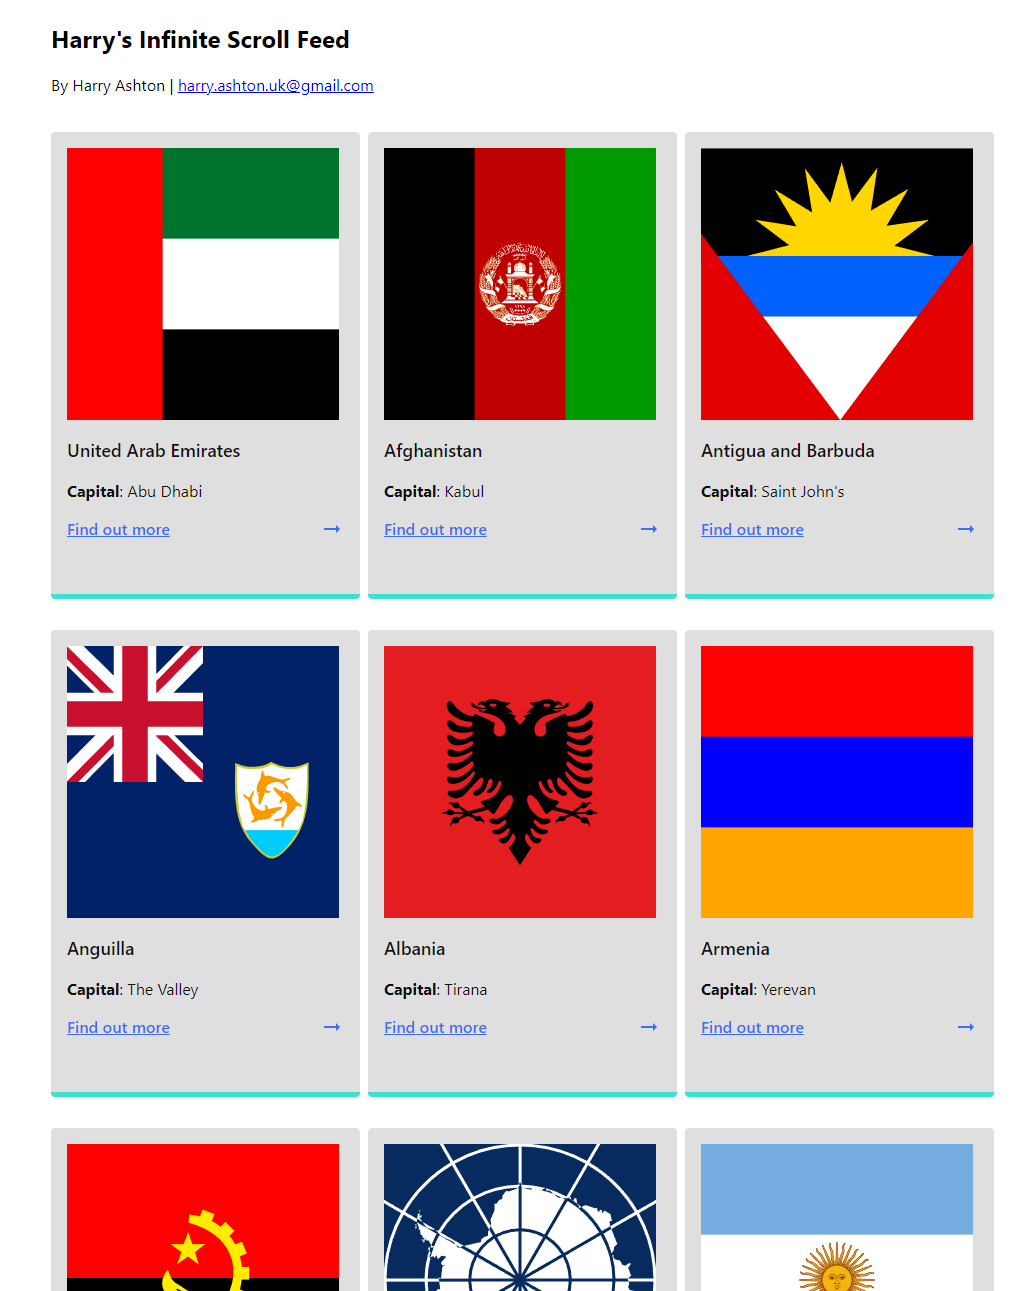
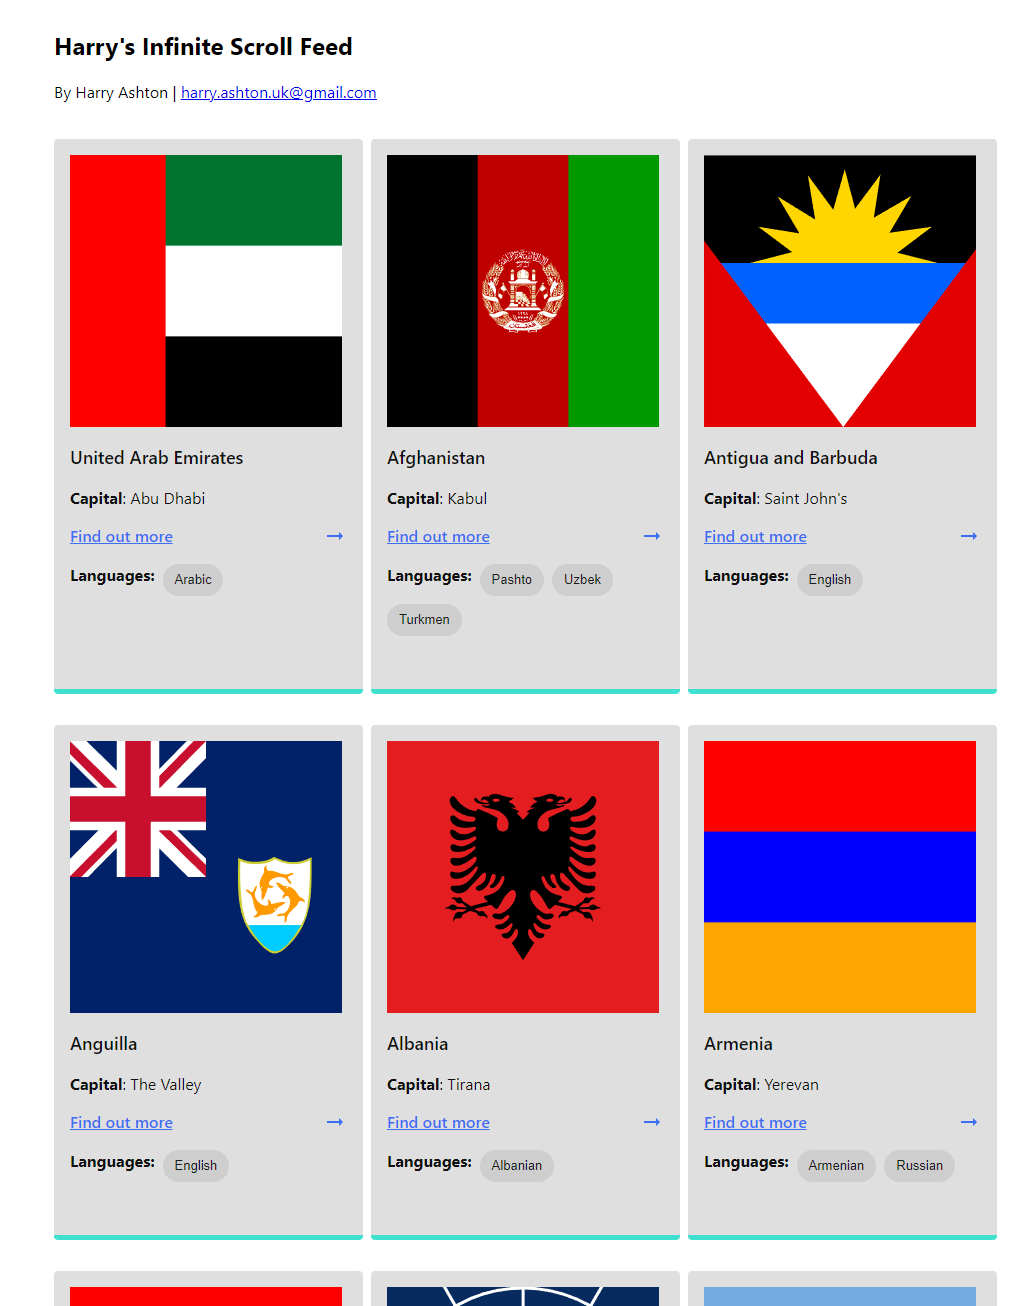
Adds languages

diff --git a/src/components/Card/Card.tsx b/src/components/Card/Card.tsx
@@ -3,9 +3,11 @@ import scss from './Card.module.scss';
 import { CardProps } from './Card.types';
 import ArrowRightAltIcon from '@mui/icons-material/ArrowRightAlt';
 import ReactCountryFlag from 'react-country-flag';
+import { Chip } from '@mui/material';
 
 const Card = (props: CardProps) => {
-  const { className, name, capital, code, onClick, translation } = props;
+  const { className, name, capital, code, onClick, translation, languages } = props;
+  
   return (
     <div className={`${scss.card} ${className}`}>
       <div className={scss.content}>
@@ -22,6 +24,14 @@ const Card = (props: CardProps) => {
         <p className={scss.name}>{name}</p>
         <p className={scss.capital}><b>{translation.capital}</b>: {capital}</p>
         <a href={`#${name}`} tabIndex={0} className={scss.readingTime} onClick={onClick}>{translation.cta}<ArrowRightAltIcon /></a>
+        <div className={scss.languageBar}>
+          <b style={scss.languageLabel}>Languages:</b>
+          {languages.map((language, id: number) => {
+            return (
+              <Chip title={language.code?.toLocaleUpperCase()} label={language.name} key={id} />
+            )
+          })}      
+        </div>
       </div>
     </div>
   )

diff --git a/src/App.tsx b/src/App.tsx
@@ -39,15 +39,16 @@ const GET_COUNTRIES = gql`
         country = finalData[i];
         return (
           <Card 
-          key={country.id} 
-          code={country.code} 
-          capital={country.capital} 
-          name={country.name}
-          translation={{
-            cta: 'Find out more',
-            capital: 'Capital'
-          }}
-          onClick={() => console.log(`You clicked ${country.name}`)} />
+            key={country.id} 
+            code={country.code} 
+            capital={country.capital} 
+            name={country.name}
+            languages={country.languages}
+            translation={{
+              cta: 'Find out more',
+              capital: 'Capital'
+            }}
+            onClick={() => console.log(`You clicked ${country.name}`)} />
         )
        }
     }

diff --git a/src/components/Card/Card.test.tsx b/src/components/Card/Card.test.tsx
@@ -5,14 +5,19 @@ import { CardProps } from "./Card.types";
 
 describe("Card Component", () => {
   let props: CardProps;
-
   beforeEach(() => {
     props = {
-      className: "",
+      className: '',
       code: "GB",
       name: "Great Britain",
       capital: "London",
       onClick: () => console.log('something'),
+      languages: [
+        {
+          name: 'English',
+        code: 'En'
+        }
+      ],
       translation: {
         cta: 'Find out more',
         capital: 'Capital',

diff --git a/src/components/Card/Card.types.ts b/src/components/Card/Card.types.ts
@@ -1,9 +1,17 @@
+import { ReactNode } from "react"
+
 export interface CardProps {
   code: string,
   name: string,
   capital: string,
   onClick: () => void,
   className?: string,
+  languages: [
+    {
+      name: string,
+      code?: string
+    }
+  ],
   translation: {
     cta: string
     capital: string,

diff --git a/src/components/Card/Card.module.scss b/src/components/Card/Card.module.scss
@@ -38,3 +38,10 @@
     cursor: pointer;
   }
 }
+
+.languageBar {
+  display: flex;
+  flex-wrap: wrap;
+  margin-top: 16px;
+  gap: 8px;
+}
